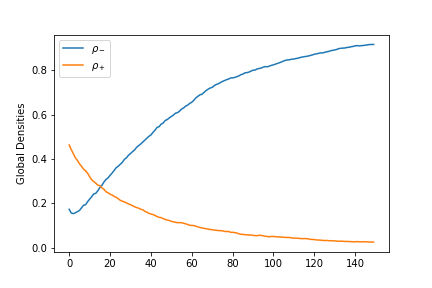
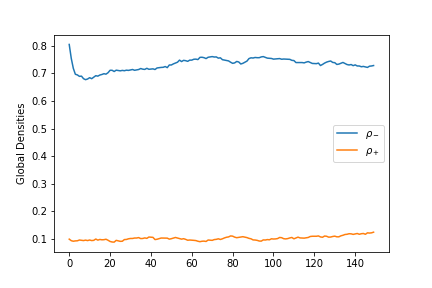
Fixes to figure 2b, added function getQ to obtain q++,q-+ in model

diff --git a/ecosystem/agent.py b/ecosystem/agent.py
@@ -12,9 +12,9 @@ class Patch(Agent):
         self.condition = cond
         self.new_condition = cond
         self.model = model
-        self.q = 1
+        self.q = 0
 
-    def step(self):
+    def getQ(self):
         # create a neighbor array
         neighbors = self.model.grid.get_neighbors(self.pos, moore=False)  # von Neumann neighborhood
         # calculate the amount of neighbors
@@ -22,8 +22,22 @@ class Patch(Agent):
         for neighbor in neighbors:
             if neighbor.condition == "Vegetated":
                 num_veg += 1
-        self.q = num_veg / len(neighbors)  # MAYBE THIS SHOULD BE CALCULATED DIFFERENTLY? USE GLOBAL neighborhoods?
+        q = num_veg / len(neighbors)  # MAYBE THIS SHOULD BE CALCULATED DIFFERENTLY? USE GLOBAL neighborhoods?
+        return q
 
+    def getQminus(self):
+        # create a neighbor array
+        neighbors = self.model.grid.get_neighbors(self.pos, moore=False)  # von Neumann neighborhood
+        # calculate the amount of neighbors
+        num_veg = 0
+        for neighbor in neighbors:
+            if neighbor.condition == "Degraded":
+                num_veg += 1
+        q = num_veg / len(neighbors)  # MAYBE THIS SHOULD BE CALCULATED DIFFERENTLY? USE GLOBAL neighborhoods?
+        return q
+
+    def step(self):
+        self.q = self.getQ()
         # calculate rates:
         w_mor = self.model.m
         w_deg = self.model.d
@@ -53,6 +67,8 @@ class Patch(Agent):
             rand_num = random.random()
             if rand_num < w_mor:
                 self.new_condition = "Empty"
+
+        self.condition = self.new_condition
 
     def advance(self):
         self.condition = self.new_condition

diff --git a/ecosystem/model.py b/ecosystem/model.py
@@ -22,7 +22,7 @@ class EcoModel(Model):
         self.height = height
         self.width = width
         self.num_agents = self.width*self.height
-        self.schedule = SimultaneousActivation(self)
+        self.schedule = RandomActivation(self)
         self.delta = 0
         self.c = 0.3
         self.r = 0
@@ -70,6 +70,7 @@ class EcoModel(Model):
         # calculate rho?
         self.count_veg = self.count_type(self, "Vegetated")
         self.rho_veg = self.count_veg / self.num_agents
+
         self.datacollector.collect(self)
         self.schedule.step()
 
@@ -86,21 +87,18 @@ class EcoModel(Model):
                 count += 1
         return count
 
-
-    @staticmethod
-    def calculate_local_densities(model):
+    def calculate_local_densities(self, model):
         '''Helper method to count vegetated neighbours.'''
 
         qplusplus = []
-        qplusminus = []
+        qminusplus = []
 
         for patch in model.schedule.agents:
-            if patch.condition == "Empty":
-                qplusminus.append(patch.q)
-            elif patch.condition == "Vegetated":
-                qplusplus.append(patch.q)
+            if patch.condition == "Vegetated":
+                qplusplus.append(patch.getQ())
+                qminusplus.append(patch.getQminus())
 
-        return (np.mean(qplusplus), np.mean(qplusminus))
+        return (np.mean(qplusplus), np.mean(qminusplus))
 
 
 
